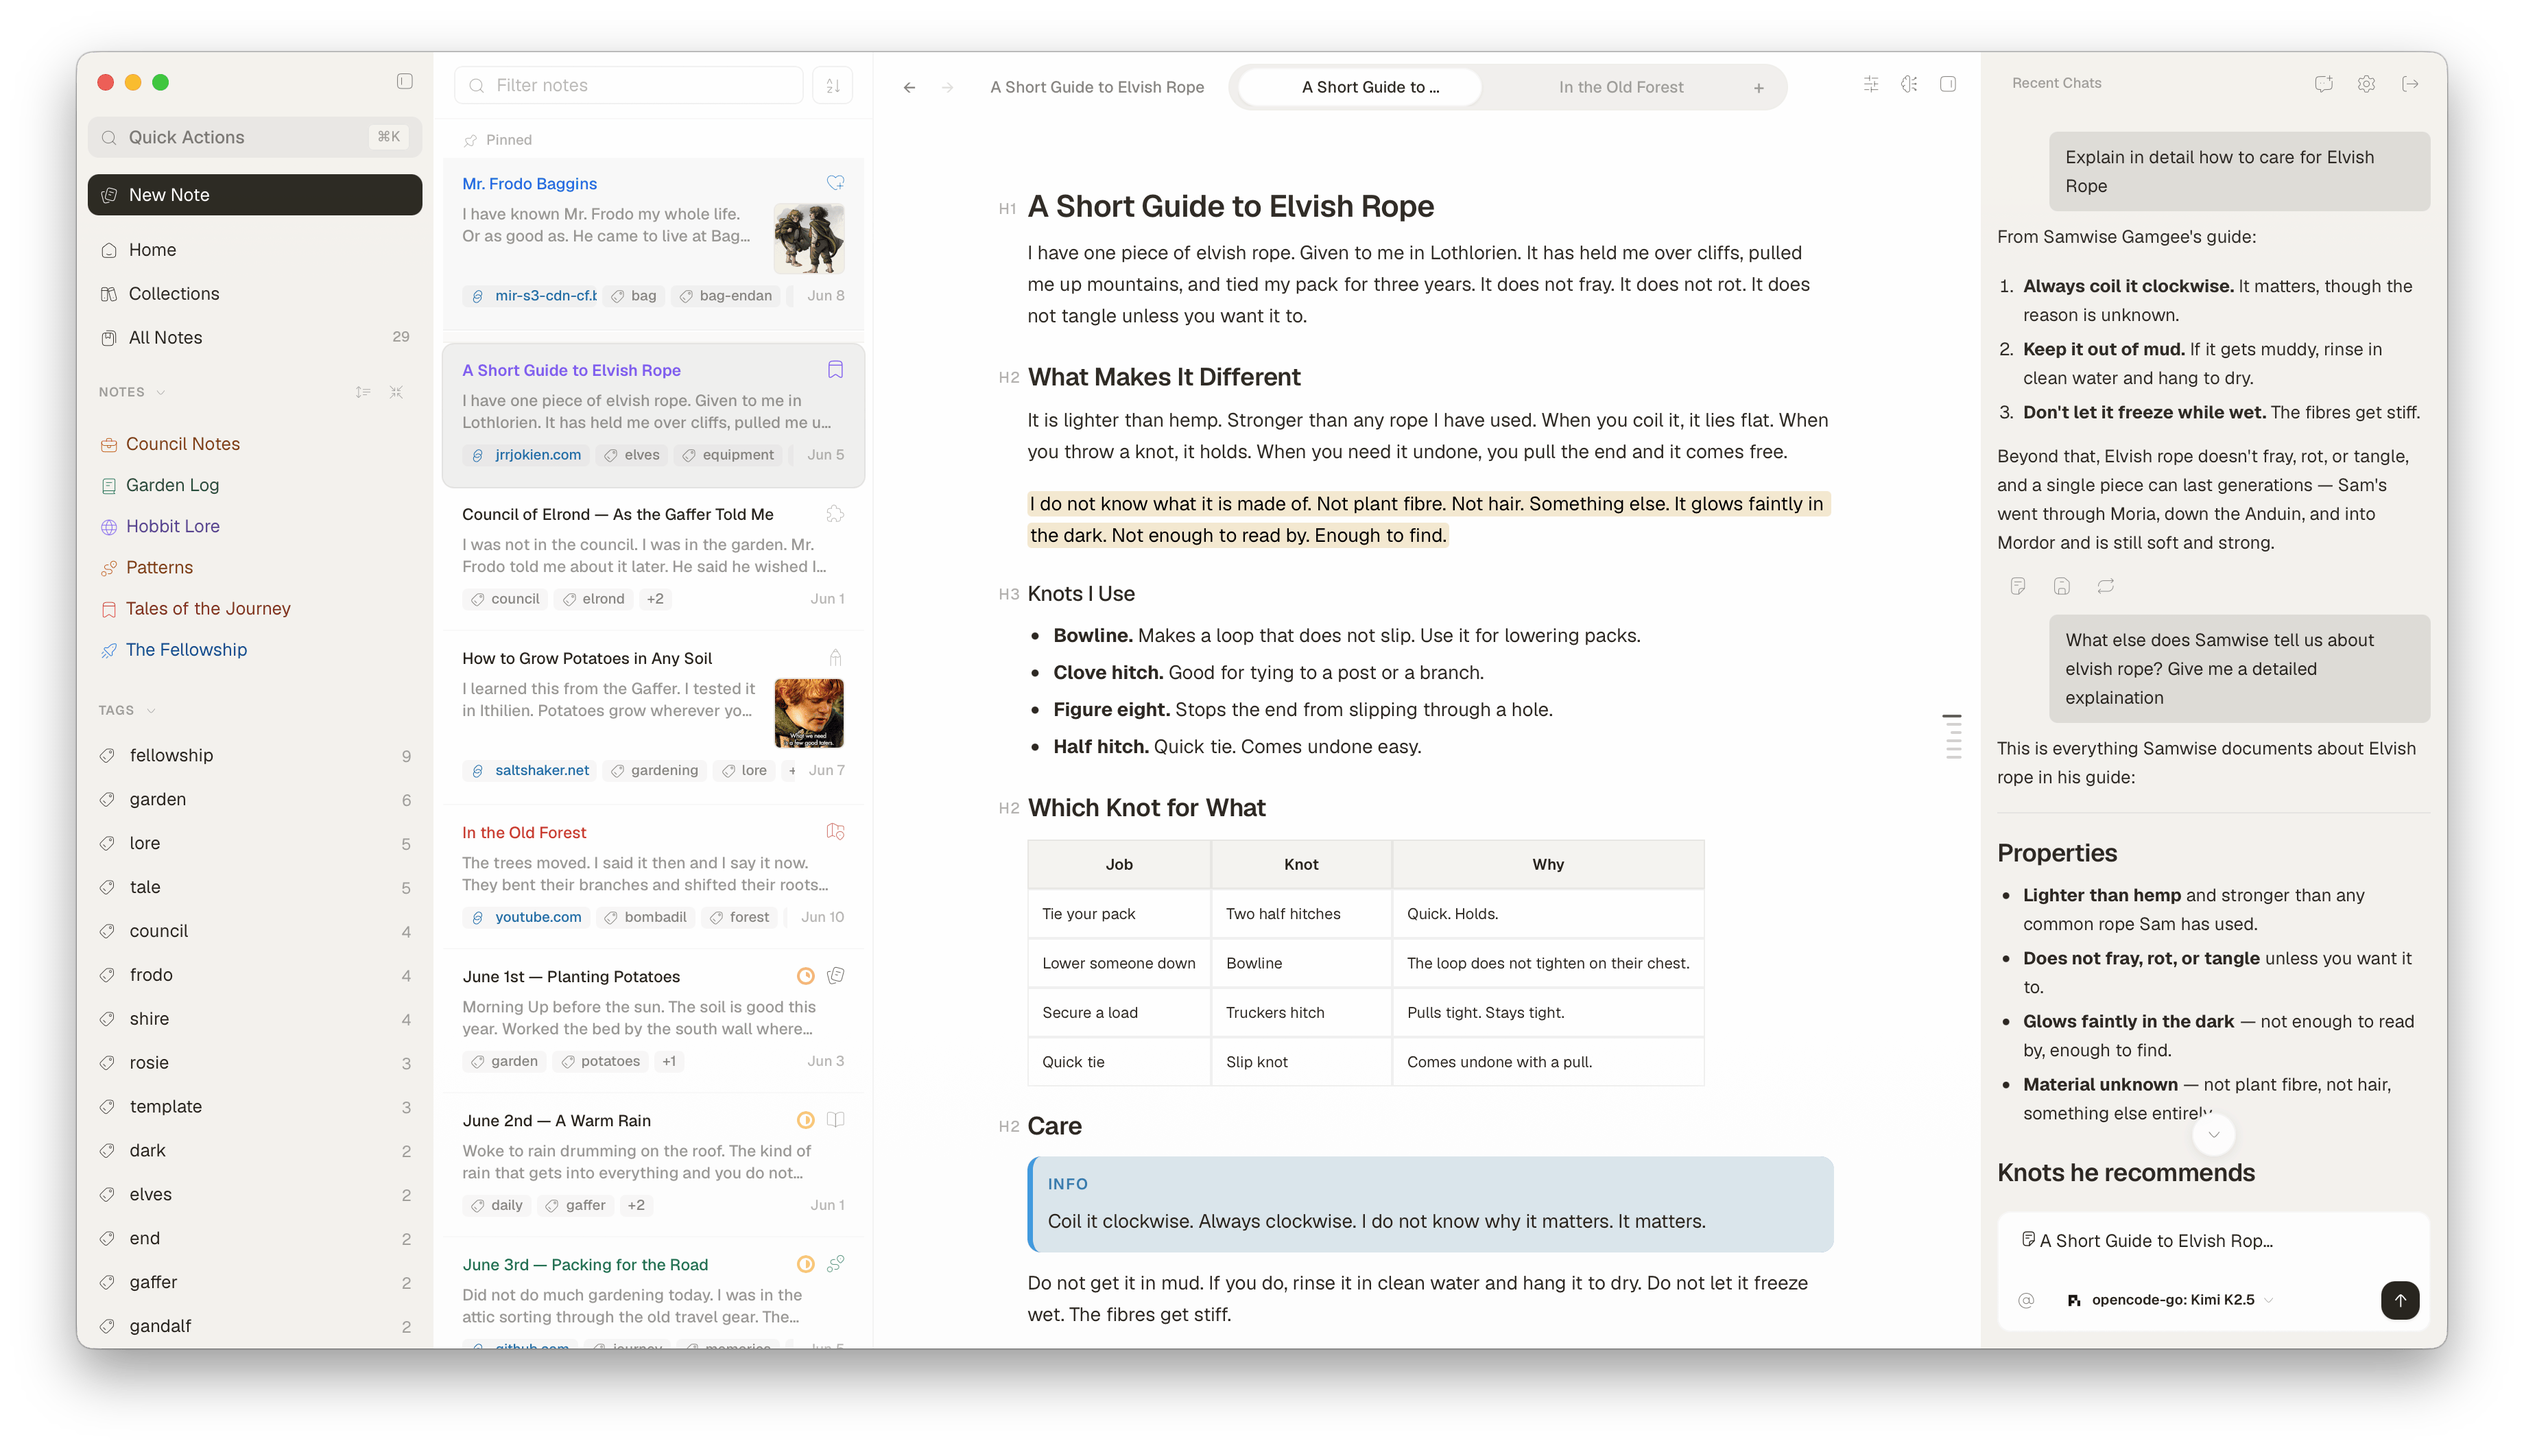
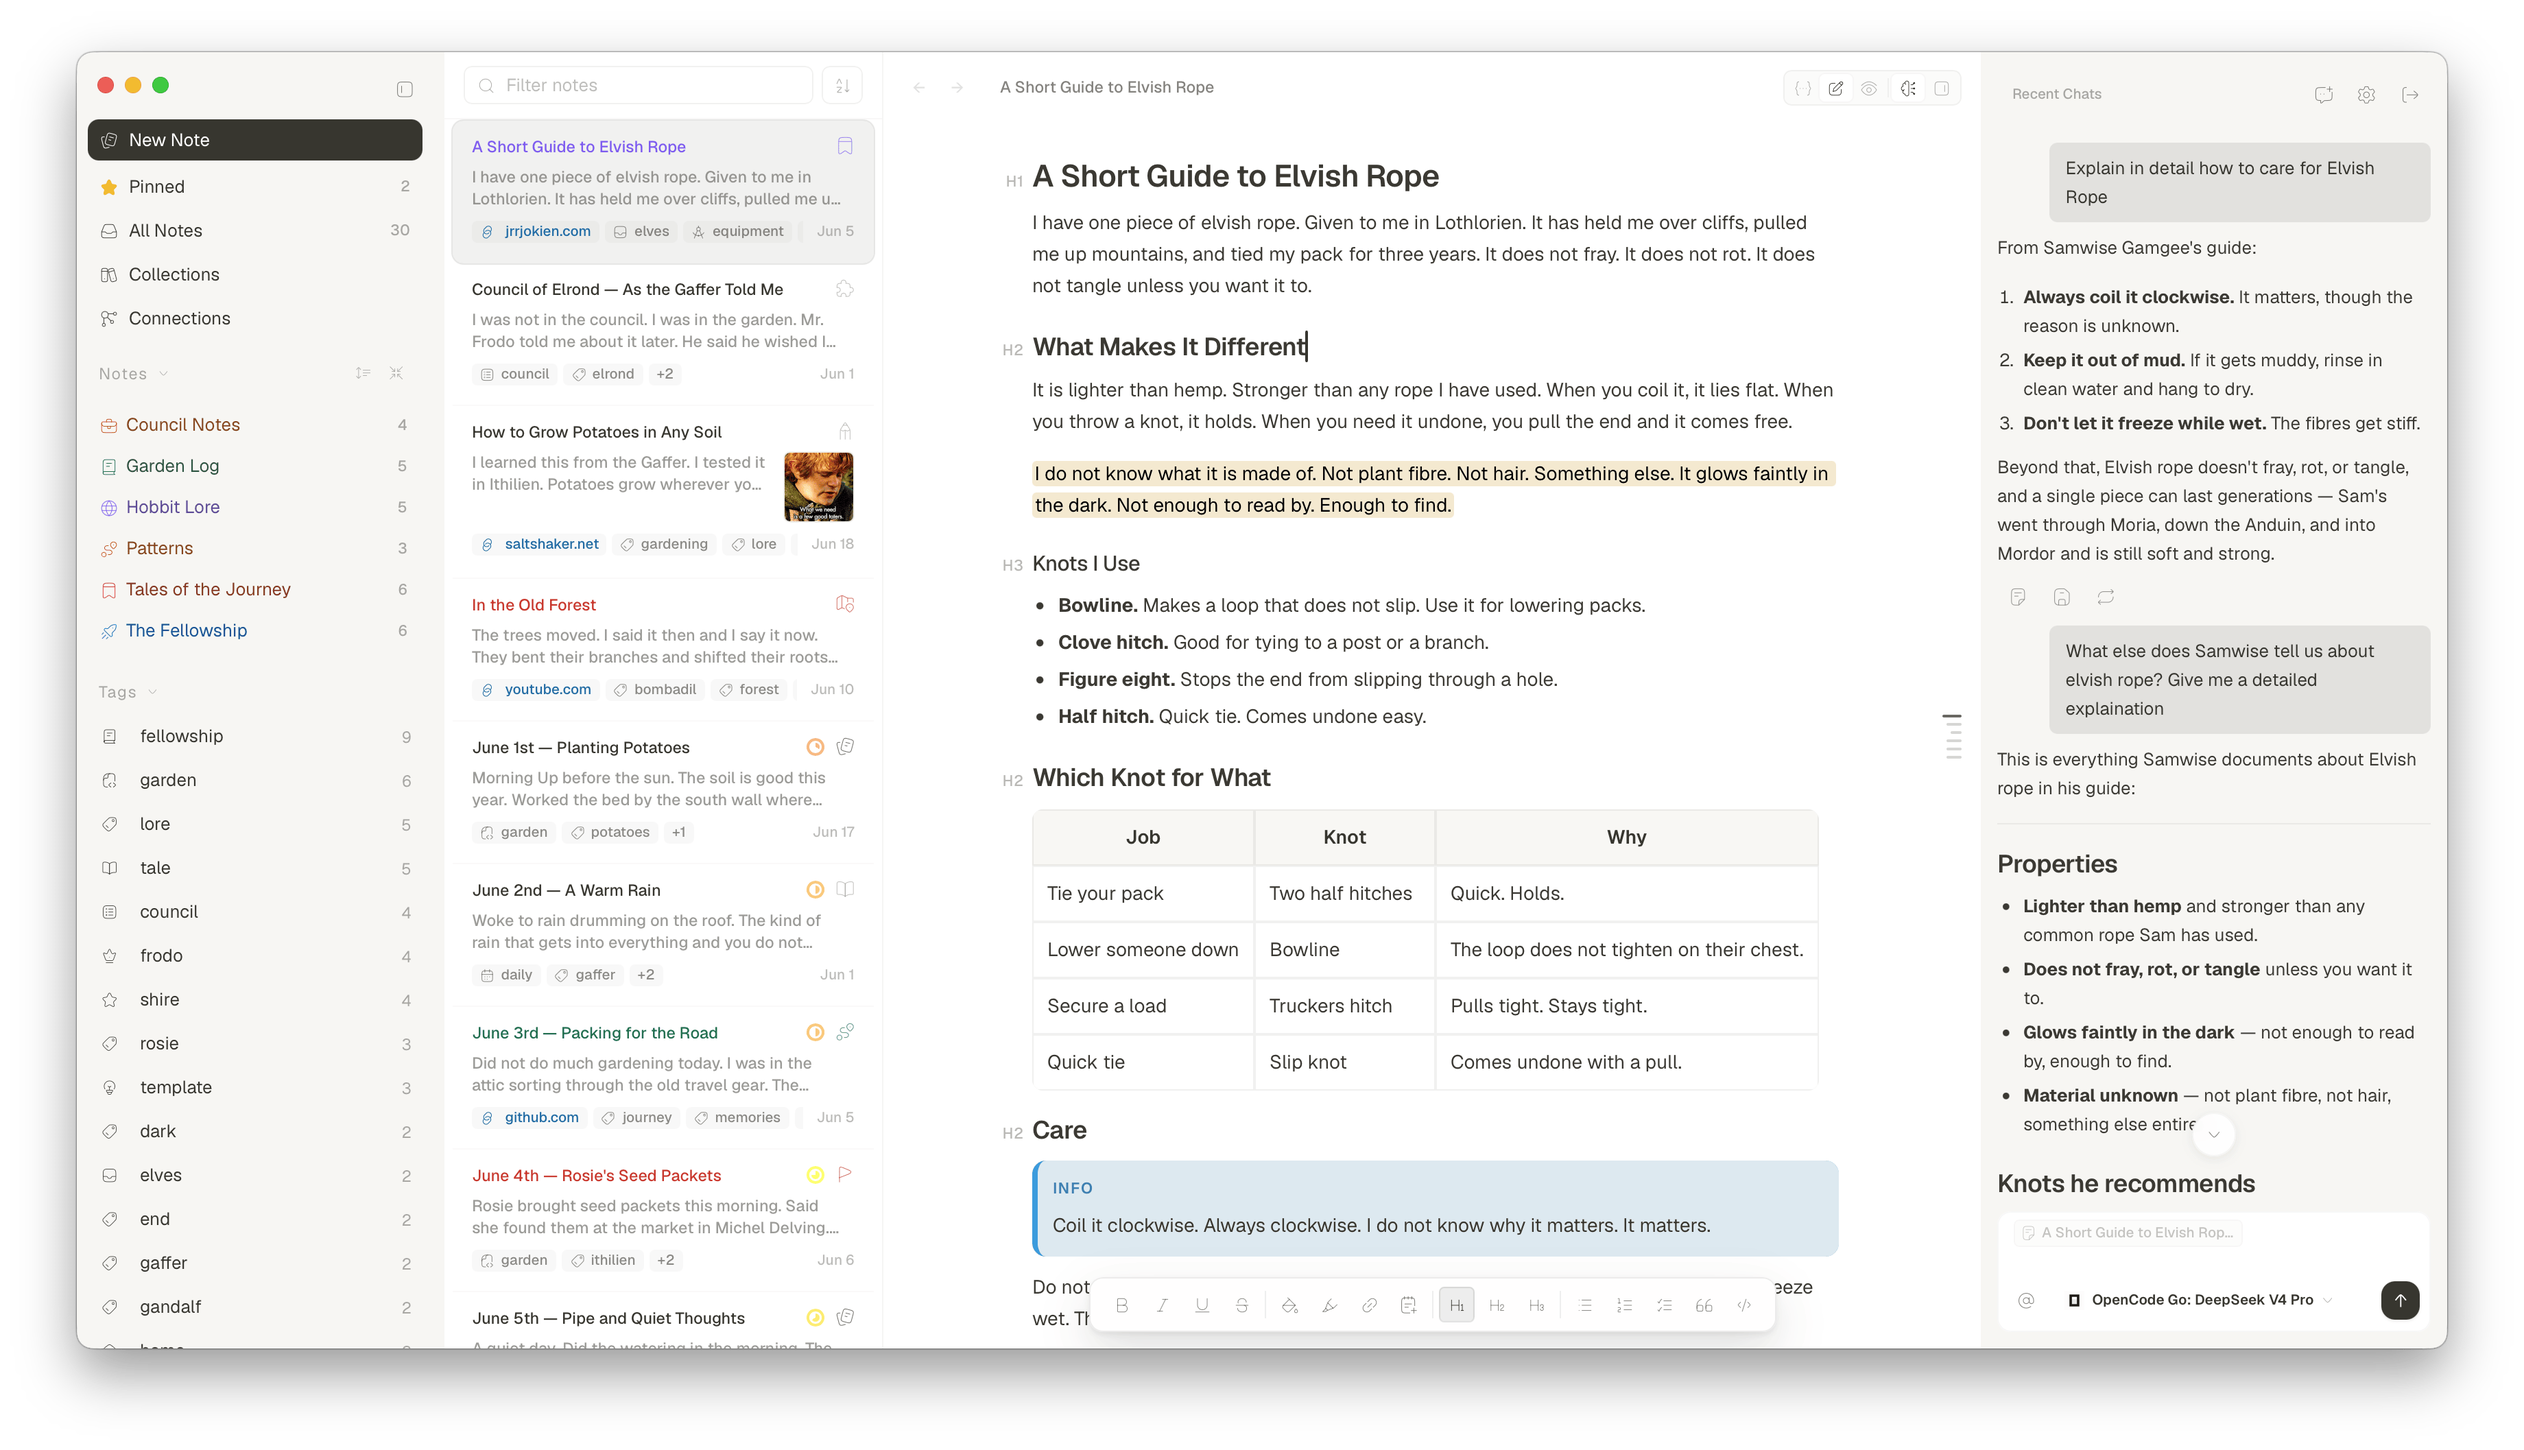
readme edited [Release]

diff --git a/AGENTS.md b/AGENTS.md
@@ -22,7 +22,7 @@ pnpm tauri dev      # Full Tauri app in dev mode
 GLYPH_DEV_FORCE_TRIAL=1 pnpm tauri dev # Force trial mode to check licensing UI
 ```
 
-**Pre-push:** `pnpm check && pnpm build && cd src-tauri && cargo check`
+**Pre-push:** `pnpm check && pnpm build && cd src-tauri && cargo check` # use this when you are ready to push your changes to the main branch, and the user has requested you to do so.
 
 **Never run a dev server (Vite, `pnpm dev`, `pnpm tauri dev`, or otherwise) — the user handles dev.**
 
